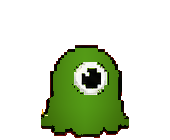
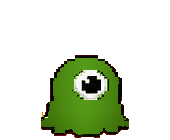
Tighten slime idle scale and debris cleanup

diff --git a/g00dweird_chat-main/frontend/src/components/AnimSpriteAssets.test.js b/g00dweird_chat-main/frontend/src/components/AnimSpriteAssets.test.js
@@ -212,6 +212,19 @@ function bodyBrightnessMedian(decoded) {
     return values.length ? values[Math.floor(values.length / 2)] : 0;
 }
 
+function pointsBounds(points) {
+    const xs = points.map(({ x }) => x);
+    const ys = points.map(({ y }) => y);
+    return {
+        left: Math.min(...xs),
+        top: Math.min(...ys),
+        right: Math.max(...xs),
+        bottom: Math.max(...ys),
+        width: Math.max(...xs) - Math.min(...xs) + 1,
+        height: Math.max(...ys) - Math.min(...ys) + 1,
+    };
+}
+
 function largestSlimeBodyPoints(decoded) {
     const seen = Array.from({ length: decoded.height }, () => new Uint8Array(decoded.width));
     const components = [];
@@ -240,6 +253,36 @@ function largestSlimeBodyPoints(decoded) {
 
     components.sort((a, b) => b.length - a.length);
     return components[0] || [];
+}
+
+function alphaComponents(decoded) {
+    const seen = Array.from({ length: decoded.height }, () => new Uint8Array(decoded.width));
+    const components = [];
+
+    for (let y = 0; y < decoded.height; y += 1) {
+        for (let x = 0; x < decoded.width; x += 1) {
+            if (seen[y][x] || decoded.alpha[y][x] === 0) continue;
+            const queue = [{ x, y }];
+            seen[y][x] = 1;
+            const points = [];
+
+            while (queue.length) {
+                const point = queue.shift();
+                points.push(point);
+                [[point.x - 1, point.y], [point.x + 1, point.y], [point.x, point.y - 1], [point.x, point.y + 1]].forEach(([nx, ny]) => {
+                    if (nx < 0 || ny < 0 || nx >= decoded.width || ny >= decoded.height) return;
+                    if (seen[ny][nx] || decoded.alpha[ny][nx] === 0) return;
+                    seen[ny][nx] = 1;
+                    queue.push({ x: nx, y: ny });
+                });
+            }
+
+            components.push(points);
+        }
+    }
+
+    components.sort((a, b) => b.length - a.length);
+    return components;
 }
 
 function transparentRowInteriorLeaks(decoded) {
@@ -398,6 +441,47 @@ describe("animated sprite asset alpha", () => {
 
         expect({ medians, spread: Number(spread.toFixed(2)) }).toMatchObject({ spread: expect.any(Number) });
         expect(spread).toBeLessThanOrEqual(3);
+    });
+
+    test("slime idle body height stays close to hop travel height", () => {
+        const idleHeights = ["idle_0.png", "idle_1.png", "idle_2.png"].map((name) => ({
+            name,
+            height: pointsBounds(largestSlimeBodyPoints(decodePngAlpha(path.join(SLIME_DIR, name)))).height,
+        }));
+        const hopHeights = ["hop_0.png", "hop_1.png", "hop_2.png", "hop_3.png"].map((name) => ({
+            name,
+            height: pointsBounds(largestSlimeBodyPoints(decodePngAlpha(path.join(SLIME_DIR, name)))).height,
+        }));
+        const sortedHopHeights = hopHeights.map(({ height }) => height).sort((a, b) => a - b);
+        const hopMedian = sortedHopHeights[Math.floor(sortedHopHeights.length / 2)];
+        const maxIdleHeight = Math.max(...idleHeights.map(({ height }) => height));
+
+        expect({ idleHeights, hopHeights, hopMedian, maxIdleHeight }).toMatchObject({
+            hopMedian: expect.any(Number),
+            maxIdleHeight: expect.any(Number),
+        });
+        expect(maxIdleHeight).toBeLessThanOrEqual(hopMedian + 5);
+    });
+
+    test("slime frames do not keep disconnected rotoscope debris", () => {
+        const debrisFrames = fs.readdirSync(SLIME_DIR)
+            .filter((name) => name.endsWith(".png"))
+            .map((name) => {
+                const components = alphaComponents(decodePngAlpha(path.join(SLIME_DIR, name)));
+                const debris = components.slice(1).filter((component) => component.length <= 20);
+                return debris.length
+                    ? {
+                        name,
+                        debris: debris.map((component) => ({
+                            pixels: component.length,
+                            bounds: pointsBounds(component),
+                        })),
+                    }
+                    : null;
+            })
+            .filter(Boolean);
+
+        expect(debrisFrames).toEqual([]);
     });
 
     test("slime sleep frame keeps the sleeping pose instead of the standing idle pose", () => {

diff --git a/g00dweird_chat-main/frontend/src/components/AnimSprite.jsx b/g00dweird_chat-main/frontend/src/components/AnimSprite.jsx
@@ -18,7 +18,7 @@ import React, { useEffect, useRef } from "react";
  * STATE_ALIASES maps requested-but-missing states onto sensible existing frames.
  */
 
-export const ANIM_VERSION = 29;
+export const ANIM_VERSION = 30;
 
 // Frame counts per creature/state — mirrors slicer v3 / unified output.
 export const FRAMES = {

diff --git a/g00dweird_chat-main/scripts/smooth_slime_body_texture.py b/g00dweird_chat-main/scripts/smooth_slime_body_texture.py
@@ -13,6 +13,8 @@ from fix_slime_sprite_transparency import fix_frame
 ROOT = Path(__file__).resolve().parents[1]
 SLIME_DIR = ROOT / "frontend" / "public" / "anim" / "slime"
 SLIME_BASE = (73, 132, 16)
+IDLE_TARGET_BODY_HEIGHT = 78
+MAX_DEBRIS_PIXELS = 20
 
 
 def is_slime_body_color(color: tuple[int, int, int, int]) -> bool:
@@ -67,6 +69,75 @@ def largest_body_component(image: Image.Image) -> set[tuple[int, int]]:
                 largest = component
 
     return largest
+
+
+def alpha_components(image: Image.Image) -> list[set[tuple[int, int]]]:
+    pixels = image.load()
+    width, height = image.size
+    seen: set[tuple[int, int]] = set()
+    components: list[set[tuple[int, int]]] = []
+
+    for y in range(height):
+        for x in range(width):
+            if (x, y) in seen or pixels[x, y][3] == 0:
+                continue
+
+            queue = deque([(x, y)])
+            seen.add((x, y))
+            component: set[tuple[int, int]] = set()
+
+            while queue:
+                px, py = queue.popleft()
+                component.add((px, py))
+                for nx, ny in ((px - 1, py), (px + 1, py), (px, py - 1), (px, py + 1)):
+                    if nx < 0 or ny < 0 or nx >= width or ny >= height:
+                        continue
+                    if (nx, ny) in seen or pixels[nx, ny][3] == 0:
+                        continue
+                    seen.add((nx, ny))
+                    queue.append((nx, ny))
+
+            components.append(component)
+
+    return sorted(components, key=len, reverse=True)
+
+
+def remove_disconnected_debris(image: Image.Image, max_pixels: int = MAX_DEBRIS_PIXELS) -> int:
+    pixels = image.load()
+    removed = 0
+    for component in alpha_components(image)[1:]:
+        if len(component) > max_pixels:
+            continue
+        for x, y in component:
+            pixels[x, y] = (0, 0, 0, 0)
+            removed += 1
+    return removed
+
+
+def normalize_idle_pose_height(path: Path, target_height: int = IDLE_TARGET_BODY_HEIGHT) -> int:
+    image = Image.open(path).convert("RGBA")
+    body_points = largest_body_component(image)
+    if not body_points:
+        return 0
+
+    _left, top, _right, bottom = body_bounds(body_points)
+    body_height = bottom - top + 1
+    if body_height <= target_height:
+        return 0
+
+    alpha_bbox = image.getchannel("A").getbbox()
+    if not alpha_bbox:
+        return 0
+
+    left, crop_top, right, crop_bottom = alpha_bbox
+    crop = image.crop(alpha_bbox)
+    scale_y = target_height / body_height
+    scaled_height = max(1, round(crop.height * scale_y))
+    scaled = crop.resize((crop.width, scaled_height), Image.Resampling.NEAREST)
+    out = Image.new("RGBA", image.size, (0, 0, 0, 0))
+    out.alpha_composite(scaled, (left, crop_bottom - scaled_height))
+    out.save(path, optimize=True)
+    return body_height - target_height
 
 
 def clamp_channel(value: float) -> int:
@@ -335,14 +406,18 @@ def repair_sleep_pose() -> int:
 
 
 def smooth_frame(path: Path) -> int:
-    total_changed = 0
+    total_changed = normalize_idle_pose_height(path) if path.name.startswith("idle_") else 0
 
     for _iteration in range(2):
         fix_frame(path)
         image = Image.open(path).convert("RGBA")
         pixels = image.load()
+        changed = remove_disconnected_debris(image)
         body_points = sleep_pose_body_points(image) if path.name == "emote_d_0.png" else largest_body_component(image)
         if not body_points:
+            if changed:
+                image.save(path, optimize=True)
+                total_changed += changed
             continue
 
         for _pass in range(8):
@@ -352,7 +427,6 @@ def smooth_frame(path: Path) -> int:
                 break
         body_points.update(removable_dark_specks(image, body_points))
 
-        changed = 0
         bounds = body_bounds(body_points)
         base = SLIME_BASE
 
@@ -363,9 +437,10 @@ def smooth_frame(path: Path) -> int:
                 target_g,
                 target_b,
                 255,
-            )
+        )
             changed += 1
         changed += close_alpha_chips(image)
+        changed += remove_disconnected_debris(image)
 
         if changed:
             image.save(path, optimize=True)
